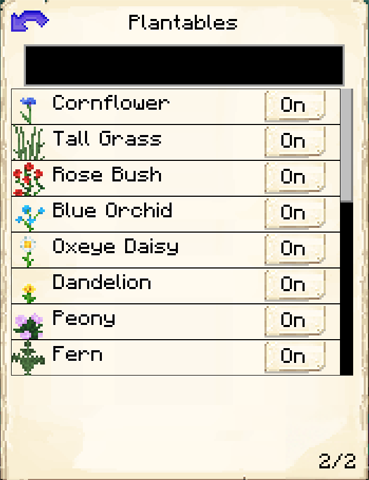
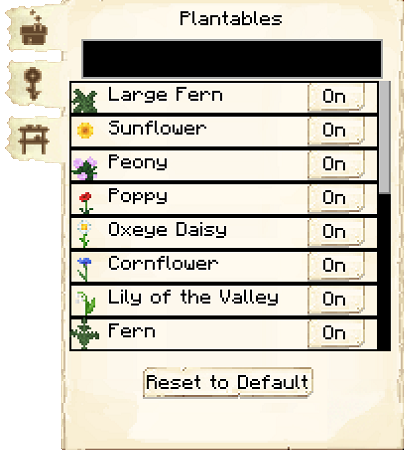
Flower Shop Hut Update (#768)

diff --git a/source/buildings/flowershop.md b/source/buildings/flowershop.md
@@ -4,20 +4,15 @@ layout: default
 ---
 # Flower Shop
 
-<div class="infobox box text-center">
-    <img src="../../assets/images/buildings/flowershop.png" alt="Flowershop's Hut" />
-    <hr />
-    <div class="row section-text text-left">
-        <div class="col">
-        <p><strong>Worker:</strong></p>
-        </div>
-        <div class="col">
-        <p><a href="../workers/florist">Florist</a></p>
-        </div>
-    </div>
-    <hr />
-    <recipe>flowershop</recipe>
+{% capture infobox-content %}
+<div class="col">
+  <p><strong>Worker:</strong></p>
 </div>
+<div class="col">
+  <p><a href="../workers/florist">Florist</a></p>
+</div>
+{% endcapture %}
+{% include infobox.html content=infobox-content recipe="flowershop" image="../../assets/images/buildings/flowershop.png" alt="Flower Shop's Hut" %}
 
 ### Note: The Flower Shop cannot be built until you have a level 3 [Composter's Hut](../../source/buildings/composter) (or three level 1 Composter's Huts, or another equivalent) and have finished the research in the [University](../../source/buildings/university).
 <br>
@@ -36,41 +31,15 @@ The Flower Shop is where your Florist will grow flowers for your colony, if give
 
 ## Flower Shop GUI
 
-When accessing the Flower Shop's hut block by right-clicking on it, you will see a GUI with different options:
-
-<br>
 <div class="row">
-  <div class="col-sm-12 col-md">
-    <img src="../../assets/images/gui/flowershopgui1.png" class="img-fluid mx-auto" alt="Crusher GUI">
-  </div>
-  <div class="col-sm-12 col-md">
-    <br>
-    <ul>
-      {% for item in site.data.gui.global %}
-        <li><strong>{{ item.button }}:</strong> {{ item.content }}</li>
-      {% endfor %}
-    </ul>
-  </div>
-</div>
-<br>
-The second page shows a list of items the Florist can plant. You can turn the plantables on or off. (The black box at the top lets you search for plants.) <b>Note: </b>you can only toggle plantables if the Flower Shop is level four or higher.
-<br><br>
+<div class="col">
+When accessing the Flower Shop's Hut block by right-clicking on it, you will see a GUI with different options. You start on the main tab:
 
-<div class="row">
-  <div class="col-sm-12 col-md">
-    <img src="../../assets/images/gui/flowershopgui2.png" class="img-fluid mx-auto" alt="Florist GUI">
-  </div>
-</div>
+    {% include contentblock/main-gui.html image="../../assets/images/gui/flowershopgui1.png" %}
 
-The third page has a minimum stock list.
+    {% include contentblock/basic.html header="The second tab of the GUI is <strong>Plantables</strong>." content="This shows a list of items the Florist can plant. You can turn the plantables on or off. (The black box at the top lets you search for plants.) <b>Note: </b>you can only toggle plantables if the Flower Shop is level three or higher." image="../../assets/images/gui/flowershopgui2.png" %}
 
-<div class="row">
-    <div class="col-sm-12 col-md">
-        <img src="../../assets/images/gui/minstockgui.png" class="img-fluid mx-auto" alt="Flower Shop GUI 3">
-    </div>
-    <div class="col-sm-12 col-md">
-        <ul>
-        <li><strong> Minimum Stock: </strong> Use this button to tell the Flower Shop to keep a minimum stock on hand. Set items will be displayed above the button.</li>
-        </ul>
+    {% include contentblock/stock-gui.html buildingname="Flower Shop's Hut" header="The third tab of the GUI is <strong>Minimum Stock</strong>. It has one button:" image="../../assets/images/gui/flowershopgui3.png"%}
+
     </div>
 </div>
